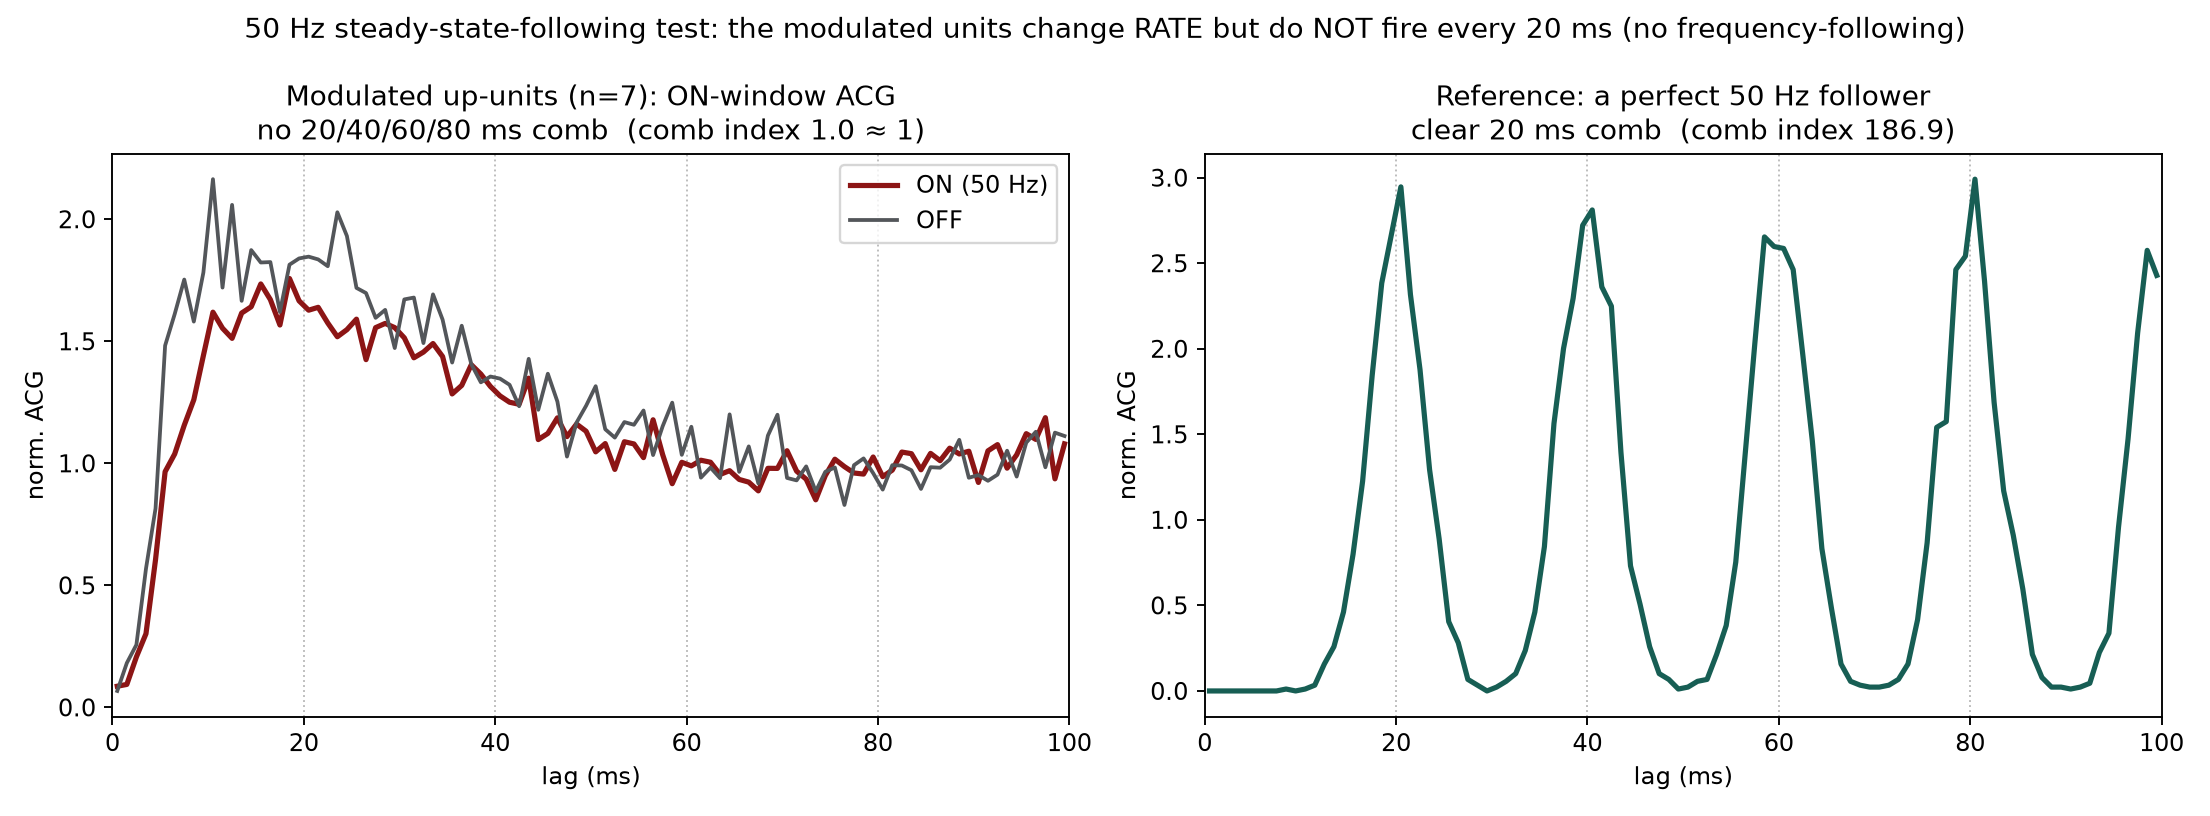
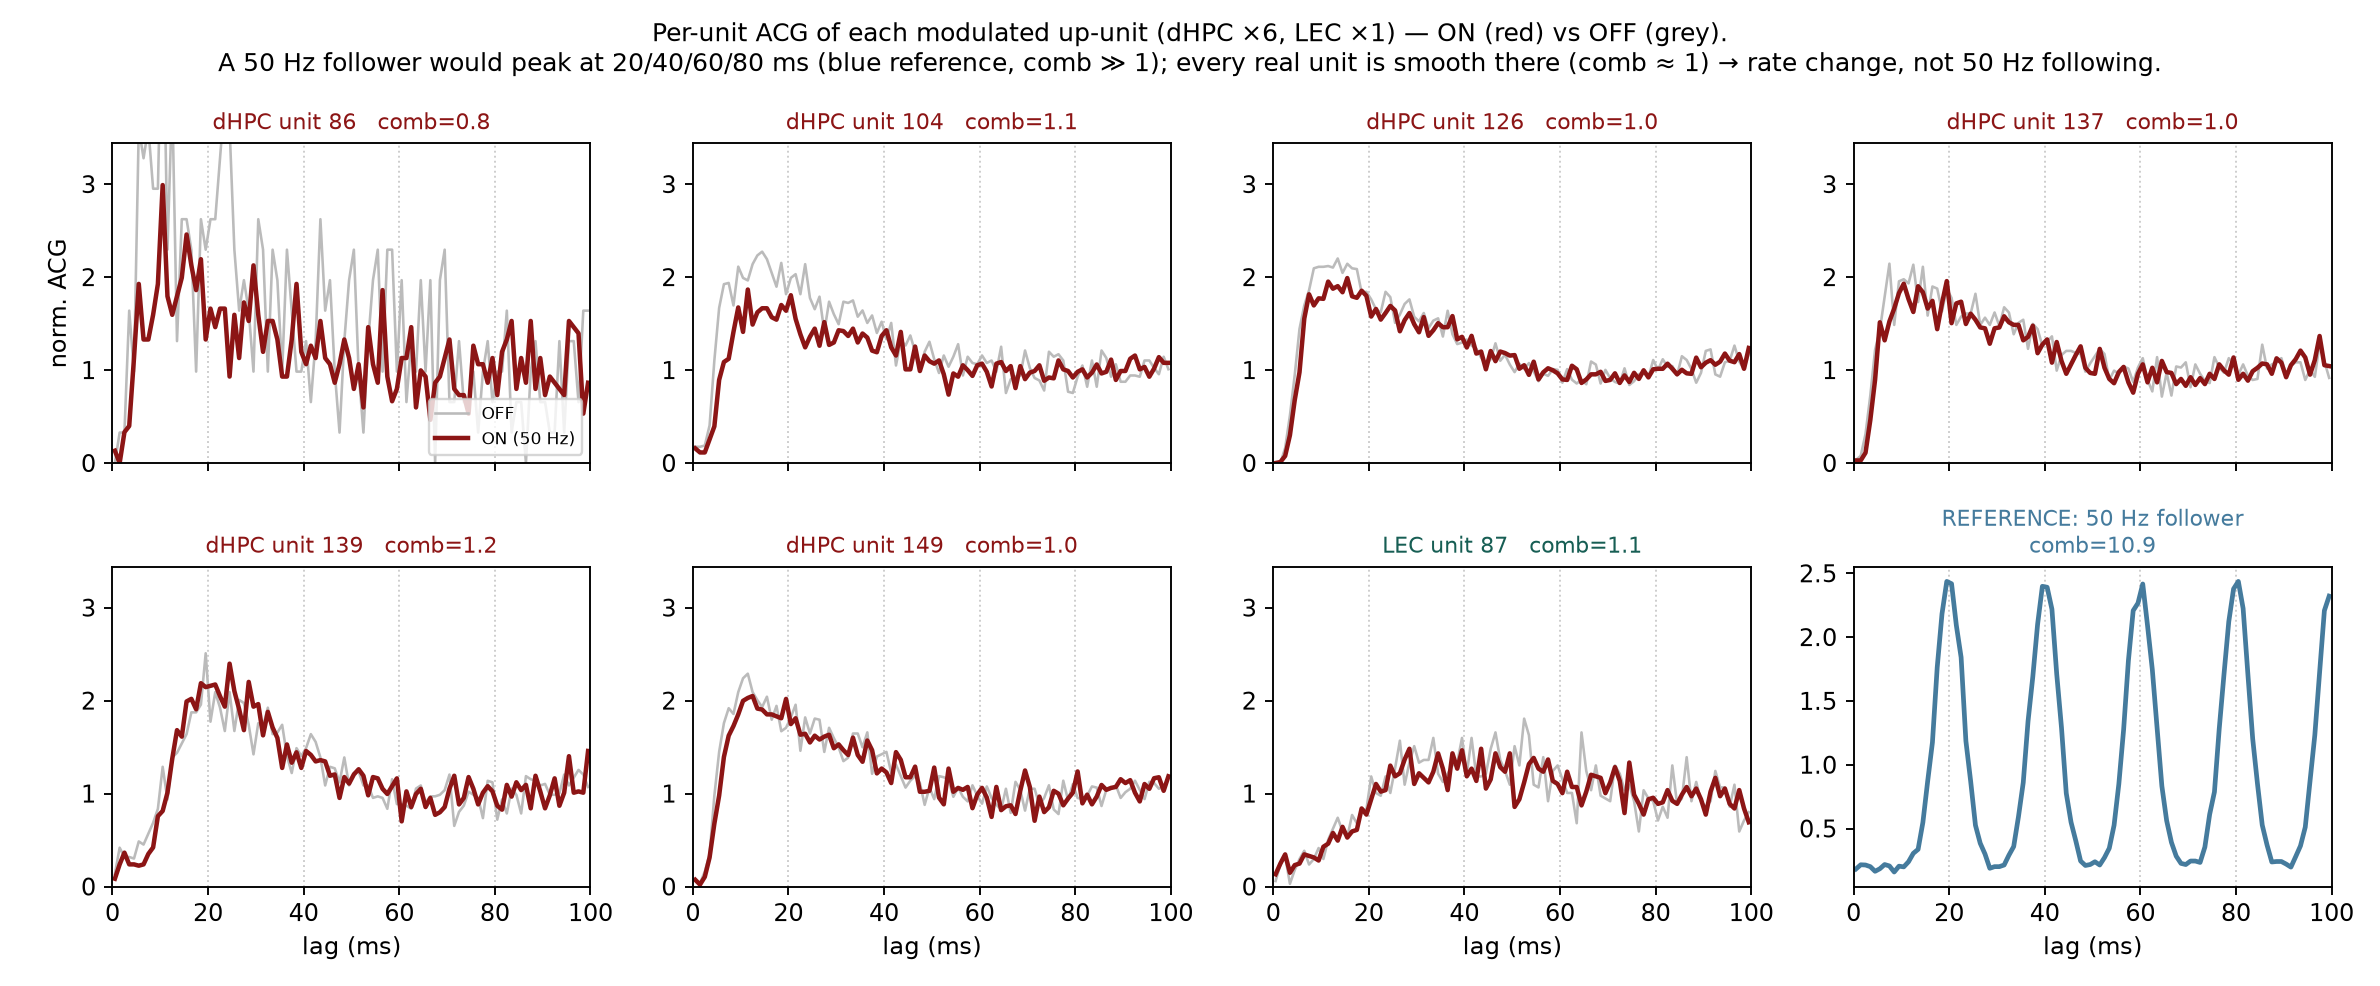
ACG 50 Hz-following test: per-unit view (region-grouped) + realistic reference
Per Misi/feedback — replace the population-average line with a PER-UNIT grid so each
modulated up-unit is visible (dHPC x6 in red, LEC x1 in teal): each panel shows that
unit's ON (red) vs OFF (grey) ACG with its comb index in the title. Every real unit
is smooth at 20/40/60/80 ms (comb ~= 1) -> rate change, not 50 Hz following. The
reference follower is now realistic (comb ~11, was an unrealistic 187). Clarifies the
n=7 are the up-MODULATED responders (not all good units): 6 dHPC + 1 LEC.

diff --git a/analysis/acg_50hz_following_dec4.py b/analysis/acg_50hz_following_dec4.py
@@ -67,17 +67,17 @@ def comb_index(h):
 
 
 def sim_follower():
-    """Simulated 50 Hz-following unit: spikes near each 20 ms cycle -> ACG comb (reference)."""
+    """Realistic simulated 50 Hz follower: a phase-locked component on top of a Poisson
+    background (so off-cycle bins are NOT empty), matching ~the up-units' firing rate."""
     rng = np.random.default_rng(0)
     starts = np.arange(0, 200) * 6.0
     spk = []
     for t0 in starts:
-        ncyc = int(3.0 / 0.02)
-        for k in range(ncyc):
-            if rng.random() < 0.25:                       # fire ~25% of cycles, phase-locked
+        for k in range(int(3.0 / 0.02)):                  # 50 Hz cycles in the 3 s window
+            if rng.random() < 0.55:                       # fire ~55% of cycles, phase-locked (jitter 2 ms)
                 spk.append(t0 + k * 0.02 + rng.normal(0, 0.002))
-    spk = np.sort(np.array(spk))
-    return norm(window_acg(spk, starts, 3.0))
+        spk.extend(t0 + rng.uniform(0, 3, rng.poisson(9)))    # ~3 Hz unlocked background
+    return norm(window_acg(np.sort(np.array(spk)), starts, 3.0))
 
 
 def main():
@@ -106,23 +106,40 @@ def main():
                 "n_up_units": len(units)}
     (OUT / "acg_following_summary.json").write_text(json.dumps(pop_comb, indent=2) + "\n")
 
-    # ---- figure ----
-    fig, ax = plt.subplots(1, 2, figsize=(13, 4.8))
+    # ---- figure: per-unit ACGs, grouped by region (dHPC then LEC), + a reference ----
+    order = sorted(range(len(units)), key=lambda i: (units[i][0] != "dHPC", units[i][1]))
+    npan = len(order) + 1
+    ncol = 4; nrow = int(np.ceil(npan / ncol))
+    fig, axes = plt.subplots(nrow, ncol, figsize=(3.5 * ncol, 2.9 * nrow), sharex=True)
+    axes = np.atleast_1d(axes).ravel()
+    for a in axes:
+        a.axis("off")
+    ymax = max(float(a.max()) for a in on_acgs) * 1.15
+    for p, i in enumerate(order):
+        a = axes[p]; a.axis("on")
+        reg, cid = units[i]
+        for k in (20, 40, 60, 80):
+            a.axvline(k, color="#ccc", lw=0.8, ls=":")
+        a.plot(CTR, off_acgs[i], color="#bbb", lw=1.1, label="OFF")
+        a.plot(CTR, on_acgs[i], color="#8C1515", lw=1.9, label="ON (50 Hz)")
+        a.set_xlim(0, 100); a.set_ylim(0, ymax)
+        a.set_title(f"{reg} unit {cid}   comb={rows[i]['comb_index_ON']:.1f}", fontsize=9.5,
+                    color=("#8C1515" if reg == "dHPC" else "#175E54"))
+        if p == 0:
+            a.legend(fontsize=7, loc="lower right"); a.set_ylabel("norm. ACG")
+        if p >= ncol * (nrow - 1):
+            a.set_xlabel("lag (ms)")
+    # reference panel (its own y-scale — a real comb is much taller)
+    ar = axes[len(order)]; ar.axis("on")
     for k in (20, 40, 60, 80):
-        ax[0].axvline(k, color="#bbb", lw=0.8, ls=":")
-    ax[0].plot(CTR, on_m.mean(0), color="#8C1515", lw=2.2, label="ON (50 Hz)")
-    ax[0].plot(CTR, off_m.mean(0), color="#53565A", lw=1.6, label="OFF")
-    ax[0].set_title(f"Modulated up-units (n={len(units)}): ON-window ACG\n"
-                    f"no 20/40/60/80 ms comb  (comb index {pop_comb['pop_comb_index_ON']} ≈ 1)")
-    ax[0].set_xlabel("lag (ms)"); ax[0].set_ylabel("norm. ACG"); ax[0].legend(); ax[0].set_xlim(0, 100)
-    for k in (20, 40, 60, 80):
-        ax[1].axvline(k, color="#bbb", lw=0.8, ls=":")
-    ax[1].plot(CTR, ref, color="#175E54", lw=2.2)
-    ax[1].set_title(f"Reference: a perfect 50 Hz follower\n"
-                    f"clear 20 ms comb  (comb index {pop_comb['reference_follower_comb_index']:.1f})")
-    ax[1].set_xlabel("lag (ms)"); ax[1].set_ylabel("norm. ACG"); ax[1].set_xlim(0, 100)
-    fig.suptitle("50 Hz steady-state-following test: the modulated units change RATE but do NOT fire every 20 ms "
-                 "(no frequency-following)", fontsize=12)
+        ar.axvline(k, color="#ccc", lw=0.8, ls=":")
+    ar.plot(CTR, ref, color="#457b9d", lw=2.0)
+    ar.set_xlim(0, 100); ar.set_xlabel("lag (ms)")
+    ar.set_title(f"REFERENCE: 50 Hz follower\ncomb={pop_comb['reference_follower_comb_index']:.1f}",
+                 fontsize=9.5, color="#457b9d")
+    fig.suptitle("Per-unit ACG of each modulated up-unit (dHPC ×6, LEC ×1) — ON (red) vs OFF (grey).\n"
+                 "A 50 Hz follower would peak at 20/40/60/80 ms (blue reference, comb ≫ 1); every real unit is "
+                 "smooth there (comb ≈ 1) → rate change, not 50 Hz following.", fontsize=10.5)
     fig.tight_layout(); fig.savefig(OUT / "acg_50hz_following_dec4.png", dpi=170); plt.close(fig)
     print(json.dumps(pop_comb, indent=2))
 